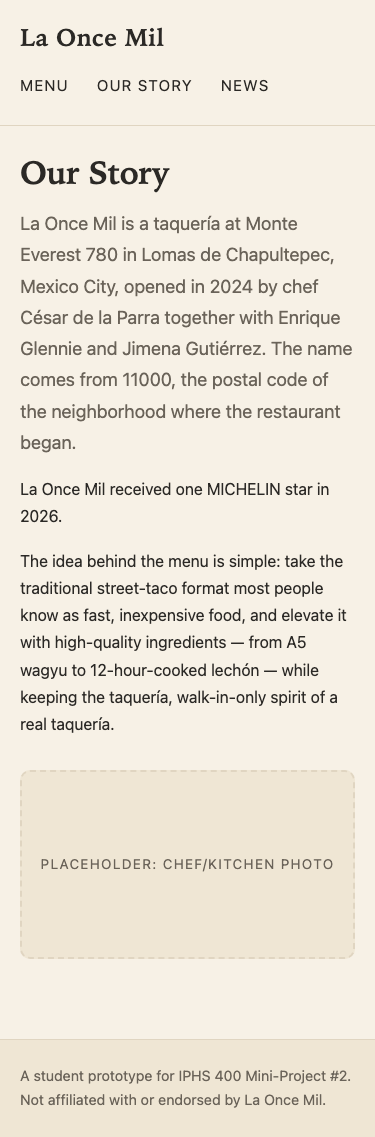
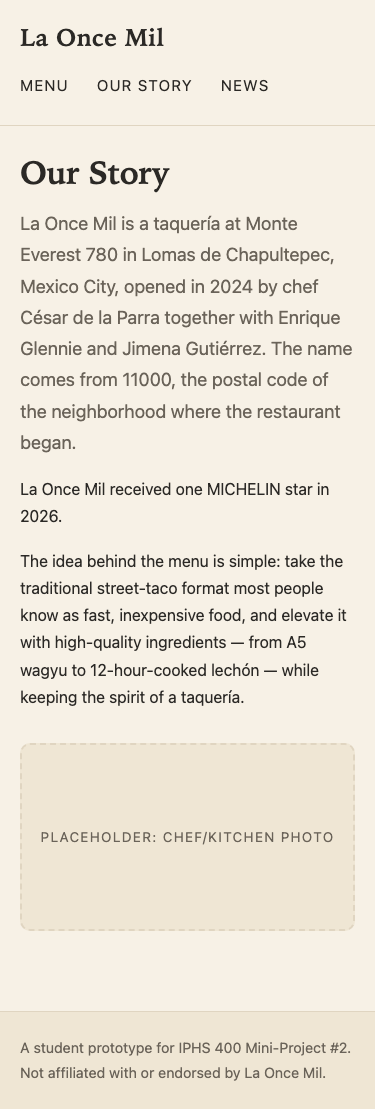
T09: Our Story closing clause under #10
The Our Story paragraph now ends "while keeping the spirit of a taquería."
Applied to seed content and, via refresh_public_copy(), to saved pages that
hold either earlier wording, without overwriting other edits.

Refs #10

diff --git a/tests/test_public_copy.py b/tests/test_public_copy.py
@@ -176,6 +176,9 @@ def test_refresh_leaves_a_draft_pages_status_alone_and_an_untitled_start_unchang
 # --- Our Story wording (T09, final copy decisions) ----------------------------
 
 STAR_SENTENCE = "La Once Mil received one MICHELIN star in 2026."
+SPIRIT = "while keeping the spirit of a taquería."
+COUNTER_SERVICE = "while keeping the counter-service, walk-in-only spirit of a real taquería."
+INTERIM_SPIRIT = "while keeping the taquería, walk-in-only spirit of a real taquería."
 OLD_STAR_SENTENCE = ("In 2026, La Once Mil became the first — and so far only — taquería to receive a "
                      "Michelin star, awarded to this Lomas de Chapultepec address specifically.")
 
@@ -184,17 +187,19 @@ def test_our_story_uses_the_agreed_wording_in_seed_and_export(site):
     html = _visible((site / "our-story.html").read_text())
     assert STAR_SENTENCE in html
     assert "counter-service" not in html and "so far only" not in html and "became the first" not in html
-    assert "keeping the taquería, walk-in-only spirit" in html
+    assert SPIRIT in html and "walk-in-only spirit" not in html
+    assert SPIRIT in db.get_page_by_slug("our-story")["body_md"]       # the seed itself, not just the export
 
 
 def test_refresh_applies_the_wording_to_a_saved_page_and_keeps_other_edits(seed):
     saved = seed.OUR_STORY_BODY.replace(STAR_SENTENCE, OLD_STAR_SENTENCE)
-    saved = saved.replace("keeping the taquería,", "keeping the counter-service,")
+    saved = saved.replace(SPIRIT, COUNTER_SERVICE)
     saved += "\nOpen since 2024, still no reservations.\n"
     _save("our-story", saved)
     assert seed.refresh_public_copy() == 1
     body = db.get_page_by_slug("our-story")["body_md"]
-    assert STAR_SENTENCE in body and "counter-service" not in body and "so far only" not in body
+    assert STAR_SENTENCE in body and SPIRIT in body
+    assert "counter-service" not in body and "so far only" not in body
     assert "Open since 2024, still no reservations." in body          # the Manager's addition survives
     assert "Jimena Gutiérrez" in body                                  # the rest is untouched
     assert seed.refresh_public_copy() == 0                             # and it is idempotent
@@ -218,15 +223,31 @@ def test_refresh_finds_the_old_sentence_even_if_it_was_wrapped_or_saved_with_crl
 
 
 def test_a_manager_edit_next_to_the_old_wording_survives(seed):
-    saved = seed.OUR_STORY_BODY.replace("keeping the taquería,", "keeping the counter-service,")
+    saved = seed.OUR_STORY_BODY.replace(SPIRIT, COUNTER_SERVICE)
     saved = saved.replace("12-hour-cooked lechón", "slow-cooked lechón")
     _save("our-story", saved)
     seed.refresh_public_copy()
     body = db.get_page_by_slug("our-story")["body_md"]
-    assert "slow-cooked lechón" in body and "counter-service" not in body
+    assert "slow-cooked lechón" in body and "counter-service" not in body and SPIRIT in body
 
 
 def test_wording_fixes_do_not_touch_other_pages(seed):
     _save("menu", "Counter-service style: keeping the counter-service, walk-in-only spirit")
     seed.refresh_public_copy()
     assert "counter-service" in db.get_page_by_slug("menu")["body_md"]
+
+
+def test_refresh_moves_the_interim_wording_to_the_final_one_and_keeps_edits(seed):
+    saved = seed.OUR_STORY_BODY.replace(SPIRIT, INTERIM_SPIRIT).replace("opened in 2024", "opened in late 2024")
+    _save("our-story", saved)
+    assert seed.refresh_public_copy() == 1
+    body = db.get_page_by_slug("our-story")["body_md"]
+    assert SPIRIT in body and "walk-in-only spirit" not in body and "opened in late 2024" in body
+    assert seed.refresh_public_copy() == 0
+
+
+def test_a_manager_who_reworded_that_sentence_is_left_alone(seed):
+    saved = seed.OUR_STORY_BODY.replace(SPIRIT, "while keeping its walk-in counter alive.")
+    _save("our-story", saved)
+    seed.refresh_public_copy()
+    assert db.get_page_by_slug("our-story")["body_md"] == saved

diff --git a/scripts/seed_demo.py b/scripts/seed_demo.py
@@ -104,7 +104,7 @@ La Once Mil received one MICHELIN star in 2026.
 The idea behind the menu is simple: take the traditional street-taco format most \
 people know as fast, inexpensive food, and elevate it with high-quality \
 ingredients — from A5 wagyu to 12-hour-cooked lechón — while keeping the \
-taquería, walk-in-only spirit of a real taquería.
+spirit of a taquería.
 
 [PLACEHOLDER: chef/kitchen photo]
 """
@@ -207,8 +207,8 @@ NEWS_POSTS = [
 ]
 
 
-# Wording decided for Our Story after review: neither the "first and only" claim nor
-# "counter-service" is in our sources. Matching ignores how the text was wrapped or
+# Wording decided for Our Story after review: the "first and only" claim is not in our
+# sources, and the closing clause now reads "while keeping the spirit of a taquería." Matching ignores how the text was wrapped or
 # spaced, and a replacement only happens where the old text is still there, so a
 # Manager's own rewording is never overwritten.
 def _loose(text: str) -> "re.Pattern[str]":
@@ -220,8 +220,11 @@ _WORDING_FIXES = {
         (_loose("In 2026, La Once Mil became the first — and so far only — taquería to receive a "
                 "Michelin star, awarded to this Lomas de Chapultepec address specifically."),
          "La Once Mil received one MICHELIN star in 2026."),
-        (_loose("keeping the counter-service, walk-in-only spirit"),
-         "keeping the taquería, walk-in-only spirit"),
+        # Both earlier versions of the closing clause (the original and the interim one).
+        (_loose("while keeping the counter-service, walk-in-only spirit of a real taquería."),
+         "while keeping the spirit of a taquería."),
+        (_loose("while keeping the taquería, walk-in-only spirit of a real taquería."),
+         "while keeping the spirit of a taquería."),
     ],
 }
 
@@ -235,7 +238,8 @@ def refresh_public_copy() -> int:
     A page whose body is still exactly what we first seeded is replaced.
     Anything the Manager has edited keeps their edits and only loses the two
     known problems: a first line that repeats the page title as a heading, and
-    a sentence pointing at a `notes/` file. Returns how many pages changed;
+    a sentence pointing at a `notes/` file, plus the agreed Our Story wording
+    (_WORDING_FIXES), each only where the old text is still there. Returns how many pages changed;
     safe to run any number of times.
     """
     fresh = {"menu": (LEGACY_MENU_BODY, MENU_BODY),
